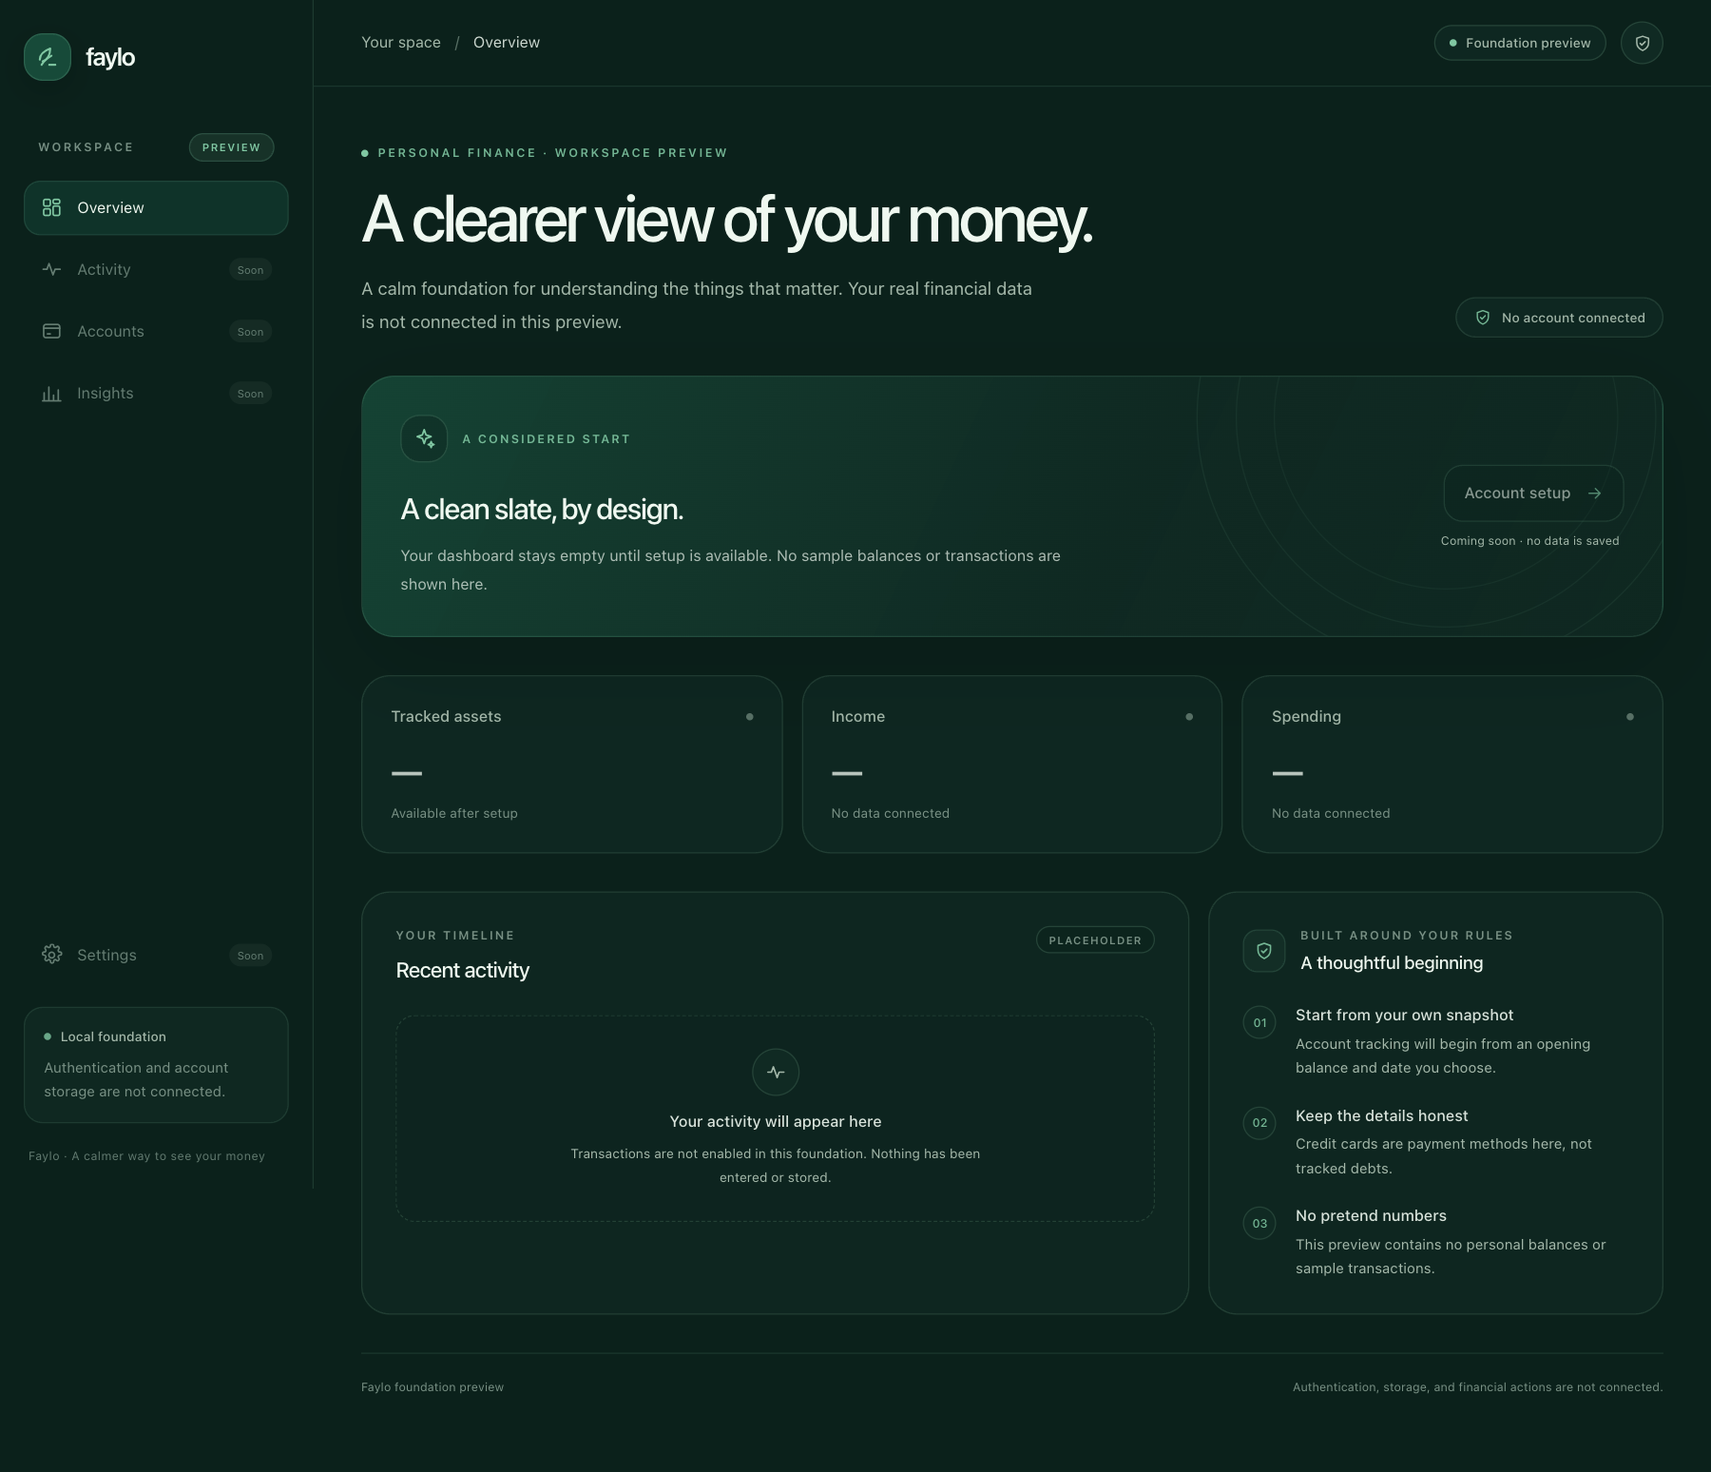
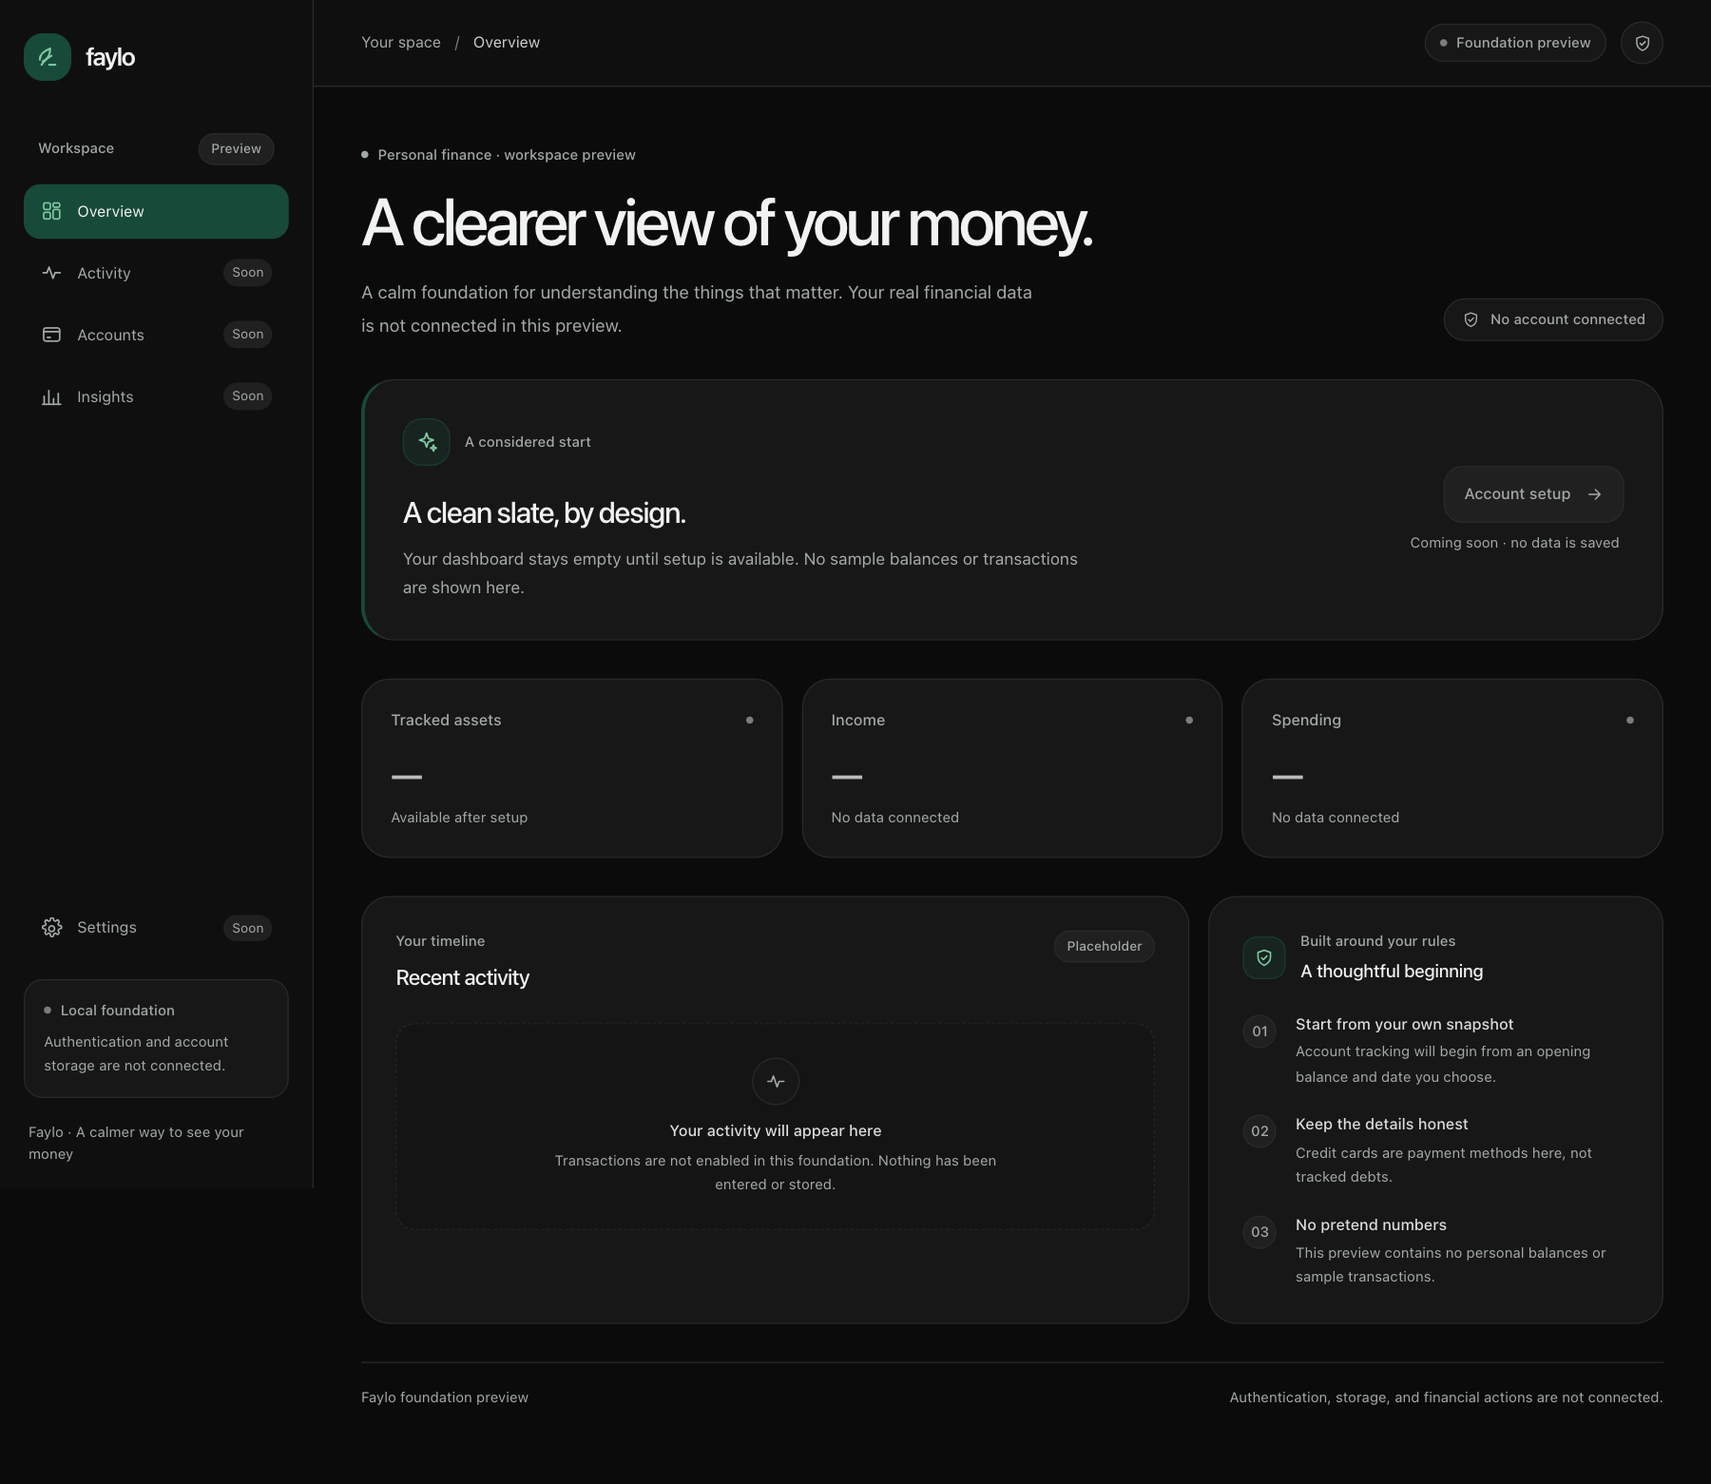
style: align Faylo with black-first design system

diff --git a/src/app/page.tsx b/src/app/page.tsx
@@ -8,13 +8,13 @@ const overviewCards = [
 
 function MetricCard({ label, detail }: { label: string; detail: string }) {
   return (
-    <section aria-label={`${label} placeholder`} className="rounded-3xl border border-border/80 bg-surface/70 p-5 sm:p-6">
+    <section aria-label={`${label} placeholder`} className="rounded-3xl border border-border bg-surface p-5 sm:p-6">
       <div className="flex items-center justify-between gap-3">
         <h2 className="text-[13px] font-medium text-muted">{label}</h2>
-        <span className="size-1.5 rounded-full bg-soft/70" />
+        <span className="size-1.5 rounded-full bg-muted/70" />
       </div>
       <p aria-label="Not available yet" className="mt-5 text-[32px] font-medium leading-none tracking-[-0.055em] text-ink/75">—</p>
-      <p className="mt-3 text-[11px] text-soft">{detail}</p>
+      <p className="mt-3 text-[12px] text-muted">{detail}</p>
     </section>
   );
 }
@@ -22,7 +22,7 @@ function MetricCard({ label, detail }: { label: string; detail: string }) {
 function Principle({ number, title, children }: { number: string; title: string; children: string }) {
   return (
     <li className="flex gap-4">
-      <span className="mt-0.5 flex size-7 shrink-0 items-center justify-center rounded-full border border-border bg-surface text-[10px] font-medium text-mint/90">{number}</span>
+      <span className="mt-0.5 flex size-7 shrink-0 items-center justify-center rounded-full border border-border bg-raised text-[12px] font-medium text-muted">{number}</span>
       <div>
         <h3 className="text-[13px] font-medium text-ink/90">{title}</h3>
         <p className="mt-1 text-xs leading-[1.7] text-muted">{children}</p>
@@ -37,8 +37,8 @@ export default function HomePage() {
       <div className="space-y-7 sm:space-y-8">
         <section aria-labelledby="page-title" className="flex flex-col justify-between gap-6 md:flex-row md:items-end">
           <div className="max-w-2xl">
-            <p className="flex items-center gap-2 text-[10px] font-semibold uppercase tracking-[0.19em] text-mint/90">
-              <span className="size-1.5 rounded-full bg-mint" />
+            <p className="flex items-center gap-2 text-[12px] font-medium text-muted">
+              <span className="size-1.5 rounded-full bg-muted" />
               Personal finance · workspace preview
             </p>
             <h1 id="page-title" className="mt-4 max-w-[650px] text-[38px] font-medium leading-[1.08] tracking-[-0.055em] text-ink sm:text-[48px] lg:text-[56px]">
@@ -48,36 +48,32 @@ export default function HomePage() {
               A calm foundation for understanding the things that matter. Your real financial data is not connected in this preview.
             </p>
           </div>
-          <span className="inline-flex w-fit items-center gap-2 rounded-full border border-border/80 bg-surface/70 px-3.5 py-2 text-[11px] font-medium text-muted">
-            <Icon className="size-4 text-mint/90" name="shield" />
+          <span className="inline-flex w-fit items-center gap-2 rounded-full border border-border bg-surface px-3.5 py-2 text-[12px] font-medium text-muted">
+            <Icon className="size-4 text-muted" name="shield" />
             No account connected
           </span>
         </section>
 
-        <section aria-labelledby="setup-title" className="relative overflow-hidden rounded-[28px] border border-mint/15 bg-[linear-gradient(115deg,rgba(23,74,57,0.82),rgba(16,42,35,0.88)_58%,rgba(16,42,35,0.72))] p-5 shadow-[0_24px_80px_rgba(0,0,0,0.15)] sm:p-7 lg:p-8">
-          <div aria-hidden="true" className="pointer-events-none absolute -right-16 -top-28 size-72 rounded-full border border-mint/[0.08] sm:-right-7 sm:-top-44 sm:size-[420px]">
-            <span className="absolute inset-8 rounded-full border border-mint/[0.07]" />
-            <span className="absolute inset-16 rounded-full border border-mint/[0.06]" />
-          </div>
-          <div className="relative flex flex-col gap-7 md:flex-row md:items-center md:justify-between">
+        <section aria-labelledby="setup-title" className="rounded-[28px] border border-border border-l-[3px] border-l-forest bg-surface p-5 sm:p-7 lg:p-8">
+          <div className="flex flex-col gap-7 md:flex-row md:items-center md:justify-between">
             <div className="max-w-2xl">
               <div className="flex items-center gap-3">
-                <span className="flex size-10 shrink-0 items-center justify-center rounded-2xl border border-mint/20 bg-canvas/40 text-mint">
+                <span className="flex size-10 shrink-0 items-center justify-center rounded-2xl border border-forest/60 bg-forest/25 text-mint">
                   <Icon className="size-5" name="spark" />
                 </span>
-                <p className="text-[10px] font-semibold uppercase tracking-[0.16em] text-mint/90">A considered start</p>
+                <p className="text-[12px] font-medium text-muted">A considered start</p>
               </div>
               <h2 id="setup-title" className="mt-5 text-[22px] font-medium tracking-[-0.04em] text-ink sm:text-[25px]">A clean slate, by design.</h2>
-              <p className="mt-2 max-w-xl text-[13px] leading-6 text-ink/70">
+              <p className="mt-2 max-w-xl text-[14px] leading-6 text-muted">
                 Your dashboard stays empty until setup is available. No sample balances or transactions are shown here.
               </p>
             </div>
             <div className="flex shrink-0 flex-col items-start gap-2 md:items-end">
-              <button className="inline-flex min-h-12 items-center gap-3 rounded-2xl border border-mint/15 bg-canvas/30 px-4 text-[13px] font-medium text-ink/55" disabled type="button">
+              <button className="inline-flex min-h-12 items-center gap-3 rounded-2xl border border-border bg-raised px-4 text-[13px] font-medium text-muted" disabled type="button">
                 Account setup
-                <Icon className="size-4 text-mint/60" name="arrow" />
+                <Icon className="size-4 text-muted" name="arrow" />
               </button>
-              <span className="pl-1 text-[10px] text-muted md:pr-1">Coming soon · no data is saved</span>
+              <span className="pl-1 text-[12px] text-muted md:pr-1">Coming soon · no data is saved</span>
             </div>
           </div>
         </section>
@@ -87,30 +83,30 @@ export default function HomePage() {
         </section>
 
         <div className="grid gap-4 xl:grid-cols-[minmax(0,1.55fr)_minmax(300px,0.85fr)]">
-          <section aria-labelledby="activity-title" className="rounded-3xl border border-border/80 bg-surface/60 p-5 sm:p-7">
+          <section aria-labelledby="activity-title" className="rounded-3xl border border-border bg-surface p-5 sm:p-7">
             <div className="flex items-start justify-between gap-4">
               <div>
-                <p className="text-[10px] font-semibold uppercase tracking-[0.16em] text-soft">Your timeline</p>
+                <p className="text-[12px] font-medium text-muted">Your timeline</p>
                 <h2 id="activity-title" className="mt-2 text-lg font-medium tracking-[-0.035em] text-ink">Recent activity</h2>
               </div>
-              <span className="rounded-full border border-border bg-canvas/50 px-2.5 py-1 text-[9px] font-semibold uppercase tracking-[0.1em] text-soft">Placeholder</span>
+              <span className="rounded-full border border-border bg-raised px-2.5 py-1 text-[11px] font-medium text-muted">Placeholder</span>
             </div>
             <div className="mt-6 flex min-h-[174px] flex-col items-center justify-center rounded-2xl border border-dashed border-border/90 bg-canvas/25 px-5 text-center">
               <span className="flex size-10 items-center justify-center rounded-full border border-border bg-surface text-muted">
                 <Icon className="size-[18px]" name="activity" />
               </span>
               <h3 className="mt-3 text-[13px] font-medium text-ink/90">Your activity will appear here</h3>
-              <p className="mt-1.5 max-w-sm text-[11px] leading-5 text-muted">Transactions are not enabled in this foundation. Nothing has been entered or stored.</p>
+              <p className="mt-1.5 max-w-sm text-[12px] leading-5 text-muted">Transactions are not enabled in this foundation. Nothing has been entered or stored.</p>
             </div>
           </section>
 
-          <section aria-labelledby="principles-title" className="rounded-3xl border border-border/80 bg-surface/60 p-5 sm:p-7">
+          <section aria-labelledby="principles-title" className="rounded-3xl border border-border bg-surface p-5 sm:p-7">
             <div className="flex items-center gap-3">
-              <span className="flex size-9 items-center justify-center rounded-xl border border-mint/15 bg-mint/5 text-mint/90">
+              <span className="flex size-9 items-center justify-center rounded-xl border border-forest/60 bg-forest/25 text-mint">
                 <Icon className="size-[18px]" name="shield" />
               </span>
               <div>
-                <p className="text-[10px] font-semibold uppercase tracking-[0.15em] text-soft">Built around your rules</p>
+                <p className="text-[12px] font-medium text-muted">Built around your rules</p>
                 <h2 id="principles-title" className="mt-1 text-[15px] font-medium tracking-[-0.02em] text-ink">A thoughtful beginning</h2>
               </div>
             </div>
@@ -122,7 +118,7 @@ export default function HomePage() {
           </section>
         </div>
 
-        <footer className="flex flex-col gap-2 border-t border-border/60 pt-5 text-[10px] text-soft sm:flex-row sm:items-center sm:justify-between">
+        <footer className="flex flex-col gap-2 border-t border-border pt-5 text-[12px] text-muted sm:flex-row sm:items-center sm:justify-between">
           <span>Faylo foundation preview</span>
           <span>Authentication, storage, and financial actions are not connected.</span>
         </footer>

diff --git a/src/components/app-shell.tsx b/src/components/app-shell.tsx
@@ -80,7 +80,7 @@ const navigationItems: { label: string; icon: IconName; active?: boolean }[] = [
 function Brand() {
   return (
     <Link aria-label="Faylo overview" className="inline-flex items-center gap-3" href="/">
-      <span className="flex size-10 items-center justify-center rounded-2xl border border-mint/20 bg-forest text-mint shadow-[0_8px_28px_rgba(0,0,0,0.18)]">
+      <span className="flex size-10 items-center justify-center rounded-2xl bg-forest text-mint">
         <Icon className="size-6" name="mark" />
       </span>
       <span className="text-[21px] font-semibold tracking-[-0.055em] text-ink">faylo</span>
@@ -126,11 +126,11 @@ function Navigation({ mobile = false }: { mobile?: boolean }) {
 export function AppShell({ children }: { children: ReactNode }) {
   return (
     <div className="min-h-screen bg-canvas text-ink">
-      <aside className="fixed inset-y-0 left-0 z-30 hidden w-[264px] flex-col border-r border-border/70 bg-canvas/95 px-5 pb-5 pt-7 backdrop-blur-xl lg:flex">
+      <aside className="fixed inset-y-0 left-0 z-30 hidden w-[264px] flex-col border-r border-border bg-chrome px-5 pb-5 pt-7 lg:flex">
         <Brand />
         <div className="mt-11 flex items-center justify-between px-3">
-          <span className="text-[10px] font-semibold uppercase tracking-[0.18em] text-soft">Workspace</span>
-          <span className="rounded-full border border-mint/20 bg-mint/10 px-2.5 py-1 text-[9px] font-semibold uppercase tracking-[0.12em] text-mint">Preview</span>
+          <span className="text-[12px] font-medium text-muted">Workspace</span>
+          <span className="rounded-full border border-border bg-raised px-2.5 py-1 text-[11px] font-medium text-muted">Preview</span>
         </div>
         <div className="mt-4">
           <Navigation />
@@ -141,29 +141,29 @@ export function AppShell({ children }: { children: ReactNode }) {
             <span>Settings</span>
             <span className="nav-soon">Soon</span>
           </button>
-          <div className="rounded-2xl border border-border/70 bg-surface/75 p-4">
-            <div className="flex items-center gap-2 text-[11px] font-medium text-muted">
-              <span className="size-1.5 rounded-full bg-mint/80" />
+          <div className="rounded-2xl border border-border bg-surface p-4">
+            <div className="flex items-center gap-2 text-[12px] font-medium text-muted">
+              <span className="size-1.5 rounded-full bg-muted/70" />
               Local foundation
             </div>
-            <p className="mt-2 text-xs leading-5 text-soft">Authentication and account storage are not connected.</p>
+            <p className="mt-2 text-[12px] leading-5 text-muted">Authentication and account storage are not connected.</p>
           </div>
-          <p className="px-1 text-[10px] tracking-wide text-soft/80">Faylo · A calmer way to see your money</p>
+          <p className="px-1 text-[12px] text-muted">Faylo · A calmer way to see your money</p>
         </div>
       </aside>
 
       <div className="lg:pl-[264px]">
-        <header className="sticky top-0 z-20 border-b border-border/60 bg-canvas/90 backdrop-blur-xl">
+        <header className="sticky top-0 z-20 border-b border-border bg-chrome">
           <div className="mx-auto flex h-[72px] max-w-[1440px] items-center justify-between px-5 sm:px-8 lg:px-10">
             <div className="lg:hidden">
               <Brand />
             </div>
             <p className="hidden text-[13px] text-muted lg:block">
-              Your space <span className="mx-2 text-soft/70">/</span> <span className="text-ink/85">Overview</span>
+              Your space <span className="mx-2 text-muted/70">/</span> <span className="text-ink/85">Overview</span>
             </p>
             <div className="flex items-center gap-3">
-              <span className="hidden items-center gap-2 rounded-full border border-border bg-surface/70 px-3 py-1.5 text-[11px] font-medium text-muted sm:inline-flex">
-                <span className="size-1.5 rounded-full bg-mint" />
+              <span className="hidden items-center gap-2 rounded-full border border-border bg-surface px-3 py-1.5 text-[12px] font-medium text-muted sm:inline-flex">
+                <span className="size-1.5 rounded-full bg-muted/70" />
                 Foundation preview
               </span>
               <span aria-label="No account connected" className="flex size-9 items-center justify-center rounded-full border border-border bg-surface text-muted">
@@ -178,7 +178,7 @@ export function AppShell({ children }: { children: ReactNode }) {
         </main>
       </div>
 
-      <div className="mobile-nav-shell fixed inset-x-0 bottom-0 z-30 border-t border-border/80 bg-canvas/95 px-3 pt-2 backdrop-blur-xl lg:hidden">
+      <div className="mobile-nav-shell fixed inset-x-0 bottom-0 z-30 border-t border-border bg-chrome px-3 pt-2 lg:hidden">
         <Navigation mobile />
       </div>
     </div>

diff --git a/src/app/globals.css b/src/app/globals.css
@@ -1,20 +1,21 @@
 @import "tailwindcss";
 
 @theme inline {
-  --color-canvas: #0b211b;
-  --color-surface: #102a23;
+  --color-canvas: #0b0b0c;
+  --color-chrome: #0f0f10;
+  --color-surface: #171717;
+  --color-raised: #202020;
   --color-forest: #174a39;
   --color-mint: #80c7a2;
-  --color-ink: #eff8f0;
-  --color-muted: #a4b8aa;
-  --color-soft: #789084;
-  --color-border: #254438;
+  --color-ink: #f1f3f2;
+  --color-muted: #a3aaa6;
+  --color-border: #292929;
   --font-sans: ui-sans-serif, system-ui, -apple-system, BlinkMacSystemFont, "Segoe UI", sans-serif;
 }
 
 :root {
   color-scheme: dark;
-  background: #0b211b;
+  background: #0b0b0c;
   font-synthesis: none;
   text-rendering: optimizeLegibility;
   -webkit-font-smoothing: antialiased;
@@ -33,10 +34,8 @@ html {
 body {
   min-height: 100vh;
   margin: 0;
-  background:
-    radial-gradient(ellipse at 75% 0%, rgb(23 74 57 / 11%), transparent 38rem),
-    #0b211b;
-  color: #eff8f0;
+  background: #0b0b0c;
+  color: #f1f3f2;
 }
 
 button,
@@ -56,7 +55,7 @@ button:disabled {
 
 ::selection {
   background: rgb(128 199 162 / 28%);
-  color: #eff8f0;
+  color: #f1f3f2;
 }
 
 .nav-item {
@@ -67,16 +66,16 @@ button:disabled {
   border: 1px solid transparent;
   border-radius: 14px;
   padding: 0 13px;
-  color: #a4b8aa;
+  color: #a3aaa6;
   font-size: 13px;
   text-align: left;
   transition: background-color 160ms ease, color 160ms ease, border-color 160ms ease;
 }
 
 .nav-item-active {
-  border-color: rgb(128 199 162 / 13%);
-  background: rgb(23 74 57 / 45%);
-  color: #eff8f0;
+  border-color: #174a39;
+  background: #174a39;
+  color: #f1f3f2;
 }
 
 .nav-item-active svg {
@@ -86,8 +85,7 @@ button:disabled {
 .nav-item-disabled {
   width: 100%;
   background: transparent;
-  color: #789084;
-  opacity: 0.82;
+  color: #a3aaa6;
 }
 
 .nav-item-mobile {
@@ -97,16 +95,16 @@ button:disabled {
   gap: 4px;
   border-radius: 12px;
   padding: 4px 2px;
-  font-size: 10px;
+  font-size: 12px;
 }
 
 .nav-soon {
   margin-left: auto;
   border-radius: 999px;
-  background: rgb(120 144 132 / 11%);
+  background: #202020;
   padding: 3px 7px;
-  color: #789084;
-  font-size: 9px;
+  color: #a3aaa6;
+  font-size: 11px;
 }
 
 .mobile-nav-shell {

diff --git a/README.md b/README.md
@@ -31,4 +31,4 @@ No environment variables are needed for the foundation preview. `.env.example` c
 
 Work only within the assigned GitHub issue. Create a dedicated feature branch, submit a scoped pull request that references the issue, and do not merge without owner approval. Treat the product requirements and data model as authoritative; ask the product owner before changing financial semantics or making deferred product decisions.
 
-The approved visual identity is dark forest `#0B211B`, forest `#174A39`, mint `#80C7A2`, and off-white `#EFF8F0`. The Taste design skill was not available in the implementation environment; disclose this when reporting frontend work rather than claiming it was used.
+The approved visual identity is black-first: near-black canvas and chrome, neutral charcoal surfaces, off-white text, and restrained Forest/Accent highlights. See the [design system](docs/design-system.md); it is authoritative for visual direction.

diff --git a/AGENTS.md b/AGENTS.md
@@ -1,6 +1,6 @@
 # Repository guidance
 
-- `docs/requirements.md` and `docs/data-model.md` are authoritative. Do not infer or silently change financial behavior.
+- Product behavior is defined by `docs/requirements.md` and `docs/data-model.md`; visual identity is defined by `docs/design-system.md`.
 - Work only within the scope of the assigned GitHub issue. Use a dedicated feature branch and a scoped pull request; do not merge without owner approval.
 - Ask the product owner before changing any financial semantics or making a deferred product decision.
 - Never commit credentials, secrets, or real personal financial data. Keep environment files local; `.env.example` may contain placeholders only.
